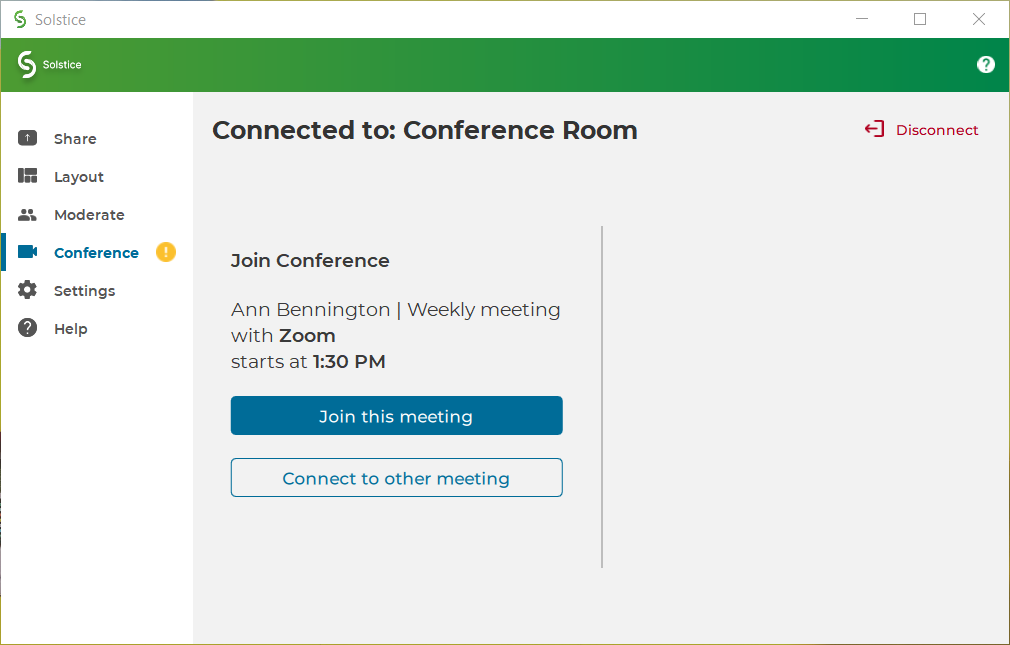
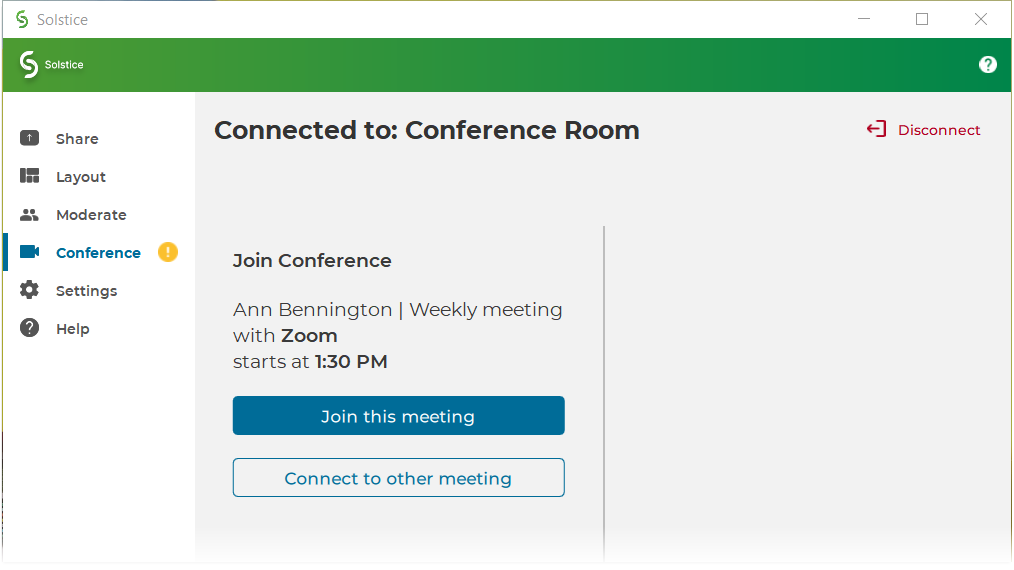
Updates to new 5.5 screenshots in User and Conference topics for best appearance and fit in PDF Guides

diff --git a/Content/Topics/Solstice-Conference-How-to-Use.htm b/Content/Topics/Solstice-Conference-How-to-Use.htm
@@ -11,14 +11,17 @@
         <p>Scheduled video conferences appear in advance on either on a room calendar integrated with the Solstice Pod or on a personal calendar integrated in the Mersive Solstice app. The details for the conference – meeting ID, passcode, URL, etc. – must be included in the body of the scheduled event. Integrating a room or personal calendar, along  with Solstice Pod configuration, enables one-step starts for Solstice-connected video conferences. See <a href="#Launch">Launch a Scheduled Video Conference</a> for more details. Mersive recommends enabling one-step starts for video conferences for the best user experience. </p>
         <p>The Mersive Solstice app can connect Solstice content sharing and Pod-connected room peripherals to a video conference not previously scheduled on an integrated calendar. In this scenario, the video conference needs to be started separately using the host's preferred conferencing service. See <a href="#Bridge">Bridge an In-progress Meeting to Solstice Conference</a> for more details.</p>
         <h3><a name="Using"></a>Using Solstice Conference with Dual Displays</h3>
-        <p>If the Pod is using dual display monitors, the display shared to the conference will be the display connected to HDMI 1 of the Pod. The screen connected to HDMI 2 will be labeled as a Private Display and will be visible to participants in the room but will not be shared as part of the conference. In the Mersive Solstice app layout screen, the display shared with the conference is the screen on the left.</p>
+        <p>If the Pod is using dual display monitors, the display shared to the conference will be the display connected to HDMI 1 of the Pod. The screen connected to HDMI 2 will be visible to participants in the room but will not be shared as part of the conference. In the Mersive Solstice app layout screen, the display shared with the conference is the screen on the left.</p>
         <MadCap:dropDown>
             <MadCap:dropDownHead>
-                <MadCap:dropDownHotspot>Example Dual Screen Layout in Solstice App</MadCap:dropDownHotspot>
+                <MadCap:dropDownHotspot>Example Dual Screen Layout in Mersive Solstice App</MadCap:dropDownHotspot>
             </MadCap:dropDownHead>
             <MadCap:dropDownBody>
-                <p>
+                <p MadCap:conditions="Default.5-5_Exclude">
                     <img src="../Resources/Images/solsticeConferenceDualDisplays.png" style="width: 75%;height: auto;" />
+                </p>
+                <p MadCap:conditions="Default.5-5_Release">
+                    <img src="../Resources/Images/ex_UserConfCnxDualDisplays.png" style="width: 80%;" />
                 </p>
             </MadCap:dropDownBody>
         </MadCap:dropDown>

diff --git a/Content/Topics/User-View-Collaboration-Session.htm b/Content/Topics/User-View-Collaboration-Session.htm
@@ -17,7 +17,7 @@
                     <img src="../Resources/Images/ex_remoteview.png" style="width: 754px; height: 484px;" class="noborder" />
                 </p>
                 <p MadCap:conditions="Default.5-5_Release">
-                    <img src="../Resources/Images/ex_UserAppBrowserLookIn.png" style="width: 70%;" />
+                    <img src="../Resources/Images/ex_UserAppBrowserLookIn.png" style="width: 70%;height: auto;" />
                     <br />
                 </p>
             </li>
